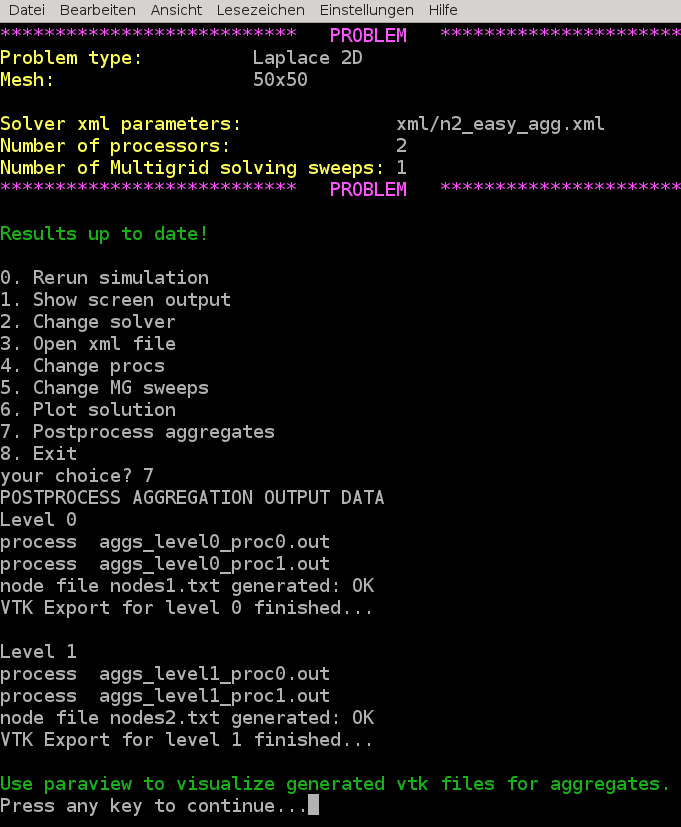
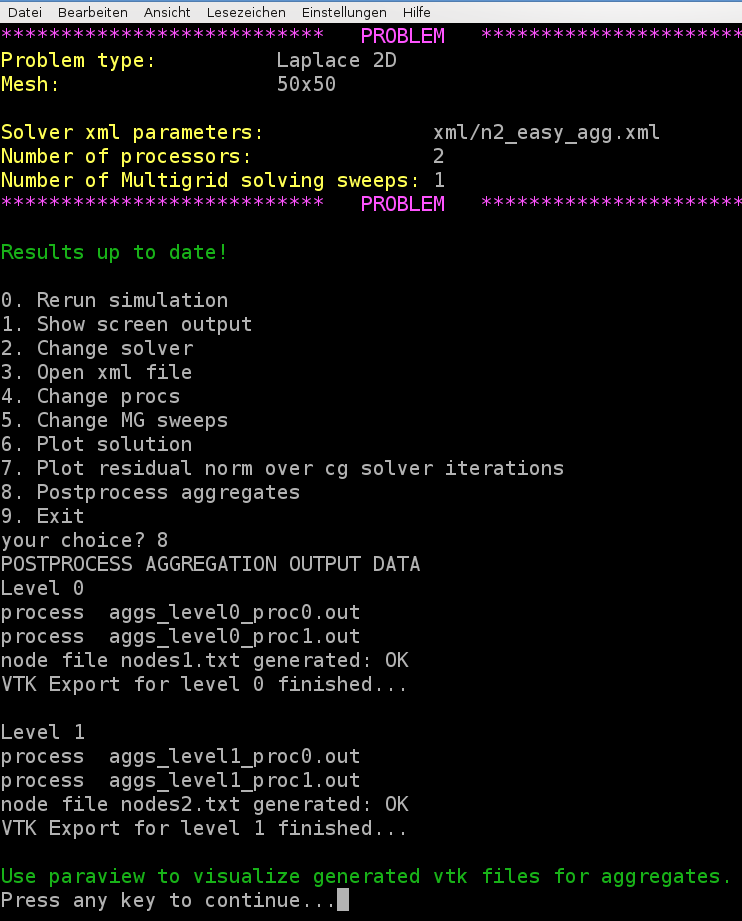
MueLu: fix some bugs in the MueLu tutorial.

diff --git a/packages/muelu/doc/Tutorial/tex/main.tex b/packages/muelu/doc/Tutorial/tex/main.tex
@@ -262,9 +262,10 @@ The first example is meant to quickly get into touch with \muelu.
 We generate a test matrix corresponding to the stencil of a 2D Laplacian operator on a structured Cartesian grid. The matrix stencil is
 \begin{equation}
 \label{lab:eq1}
-\frac{1}{h^2}\begin{pmatrix} & -1 & \\ -1 & 4 & -1 \\ & -1 & \end{pmatrix}.
+\frac{1}{h^2}\begin{pmatrix} & -1 & \\ -1 & 4 & -1 \\ & -1 & \end{pmatrix},
 \end{equation}
-The resulting matrix is symmetric positive definite. We choose the right hand side to be the constant vector one and use a random initial guess for the iterative solution process. The problem domain is the unit cube with a Cartesian (uniform) mesh.
+where $h$ denotes the mesh size parameter.
+The resulting matrix is symmetric positive definite. We choose the right hand side to be the constant vector one and use a random initial guess for the iterative solution process. The problem domain is the unit square with a Cartesian (uniform) mesh.
 
 \section{User interface}
 For this tutorial there is an easy-to-use user interface to perform some experiments with multigrid methods for the given problem as described in \S\ref{lab:examplesym}.
@@ -300,8 +301,7 @@ After pressing a key we are ready for a first analysis as it is stated by the gr
 If the results are not up to date always choose option 0 first to recalculate the results.
 \end{mycomment}
 
-To check the output select option 1 and you should find the following screen output
-This should produce the following output on screen.
+To check the output select option 1 and you should find the following screen output:
 
 \printScreenOutput{s1_easy.txt_3.fragment_1.fragment}
 
@@ -341,7 +341,7 @@ Change the number of processors. Use option 4 and select for example 4 processor
 Compare the output when using 4 processors with the output for only 2 processors. Is the number of aggregates changing? Is there some effect on the quality of the multigrid solution. How does the number and convergence history change for the preconditioned CG method?
 \end{exercise}
 \begin{exercise}
-Choose option 8 to close the program.
+Choose option 9 to close the program.
 \end{exercise}
 
 \section{The XML input deck -- multigrid parameters}
@@ -424,7 +424,7 @@ Note that the relaxation based methods provided by the \ifpack package are embed
 \end{mycomment}
 
 Of course, there exist other smoother methods such as polynomial smoothers (Chebyshev) and ILU based methods.
-A detailed overview of the different available smoothers can be found in the \muelu users guide. 
+A detailed overview of the different available smoothers can be found in the \muelu users guide (\cite{Mue}). 
 
 
 \begin{figure}
@@ -481,14 +481,16 @@ The right hand side vector $f$ is chosen to be the constant vector 1. Due to the
 \section{User interface}
 
 For this tutorial again we can use the easy-to-use user interface. Run the \texttt{hands-on.py} script in your terminal and choose option 2 for the \texttt{Recirc 2D} example on a $50\times 50$ mesh.
-Choose the parameters from the \texttt{n1\_easy.xml} file. If you run the example you might find that the CG method did not converge within 50 iterations.
+Note that the default values from the file \texttt{xml/s2a.xml} do not lead to a convergent multigrid preconditioner.
 \begin{center}\includegraphics[width=10cm]{pics/tut1_13.png} \end{center}
+
+Choose the parameters from the \texttt{n1\_easy.xml} file instead. If you run the example you might find that the GMRES method did not converge within 50 iterations.
 
 The convergence of the used unsmoothed transfer operators (\texttt{multigrid algorithm = unsmoothed}) is not optimal. In case of symmetric problems one can reduce the number of iterations using smoothed aggregation algebraic multigrid methods. In context of non-symmetric problems, especially when arising from problems with (highly) convective phenomena, one should use a Petrov-Galerkin approach for smoothing the prolongation and restriction operators more carefully.
 
 
 \begin{exercise}
-Use \texttt{multigrid algorithm = pg} and compare the results with \texttt{multigrid algorithm = unsmoothed}. What is the difference in the number of CG iterations? What is changing in the multigrid setup?
+Use \texttt{multigrid algorithm = pg} and compare the results with \texttt{multigrid algorithm = unsmoothed}. What is the difference in the number of GMRES iterations? What is changing in the multigrid setup?
 \end{exercise}
 \begin{exercise}
 For slightly non-symmetric problems the \texttt{sa} method often performs satisfactorily. Change the verbosity to high (\texttt{verbosity = high}) and compare the results of the \texttt{multigrid algorithm = pg} option with the \texttt{multigrid algorithm = sa} option. Try different values between 0 and 1.5 for the damping parameter within the smoothed aggregation method (i.e., try values 0.0, 0.5, 1.0, 1.33 and 1.5 for \texttt{sa: damping factor}). What do you observe?
@@ -510,7 +512,7 @@ We can visualize the aggregates using the vtk file format and paraview. First ad
 \lstinputlisting{../src/xml/n2_easy_agg.xml}
 The file is stored in \texttt{xml/n2\_easy\_agg.xml}.
 
-Run the \texttt{hands-on.py} script and select, e.g., the Laplace 2D example on a $50\times 50$ mesh. Select above xml file for the multigrid parameters with the \texttt{aggregation: export visualization data} enabled. Run the program and then choose option 7 for post-processing the aggregates.
+Run the \texttt{hands-on.py} script and select, e.g., the Laplace 2D example on a $50\times 50$ mesh. Select above xml file for the multigrid parameters with the \texttt{aggregation: export visualization data} enabled. Run the program and then choose option 8 for post-processing the aggregates.
 \begin{center}\includegraphics[width=10cm]{pics/tut1_14.png} \end{center}
 \begin{mycomment}
 Be aware that without \texttt{aggregation: export visualization data = true} the post processing step for the aggregates will fail.
@@ -572,7 +574,7 @@ The implementation of a \verb|coupled| aggregation method is much more complicat
 
 \section{Export data}
 \label{sec:exportdatasimple}
-For debugging purposes it can be very helpful to have a look at the coarse level matrices as well as the transfer operators. \muelu allows to export the corresponding operators to the matrix market format such that the files can be imported, e.g., into MATLAB (or Scilab) for some in-depth analysis.
+For debugging purposes it can be very helpful to have a look at the coarse level matrices as well as the transfer operators. \muelu allows to export the corresponding operators to the matrix market format such that the files can be imported, e.g., into MATLAB (or FreeMat\footnote{In the virtual image you find a FreeMat installation (\texttt{http://freemat.sourceforge.net/}).}) for some in-depth analysis.
 
 Using the following xml file writes the fine level operator and the coarse level operator as well as the prolongation and restriction operator to the hard disk using the filenames \texttt{A\_0.m}, \texttt{A\_1.m} as well as \texttt{P\_1.m} and \texttt{R\_1.m}
 \lstinputlisting{../src/xml/n2_easy_export.xml}
@@ -1551,6 +1553,8 @@ PDF-viewer:  & evince \\
 Terminal:    & LXTerminal\\
 Visualization: & paraview, gnuplot \\
 File manager: & PCManFM \\
+Analysis: & FreeMat v4.0 \\
+& GNU octave 3.8.1\\
 \end{tabular}
 
 The following system libraries are installed:

diff --git a/packages/muelu/doc/Tutorial/tex/prepareTexTutorial.py b/packages/muelu/doc/Tutorial/tex/prepareTexTutorial.py
@@ -148,7 +148,7 @@ if __name__ == '__main__':
   
   print bcolors.OKDARKGREEN + "Run test examples to include results in pdf... " + bcolors.ENDC
   # run simple easy input xml deck test
-  cmd = "../src/MueLu_tutorial_laplace2d.exe --xml=../src/xml/s1_easy.xml > s1_easy.txt"
+  cmd = "mpirun -np 2 ../src/MueLu_tutorial_laplace2d.exe --nx=50 --ny=50 --xml=../src/xml/s1_easy.xml > s1_easy.txt"
   runCommand(cmd)
   
   if os.path.isfile("s1_easy.txt") and os.access("s1_easy.txt", os.R_OK):
@@ -207,7 +207,7 @@ if __name__ == '__main__':
     
   # clean up
   print bcolors.OKDARKGREEN + "Clean up files... " + bcolors.ENDC
-  runCommand("rm *.fragment *.out *.txt")  
-  runCommand("mv main.pdf muelu_tutorial.pdf")
+  #runCommand("rm *.fragment *.out *.txt")  
+  #runCommand("mv main.pdf muelu_tutorial.pdf")
 
   print bcolors.OKDARKGREEN + "Finished. " + bcolors.ENDC
